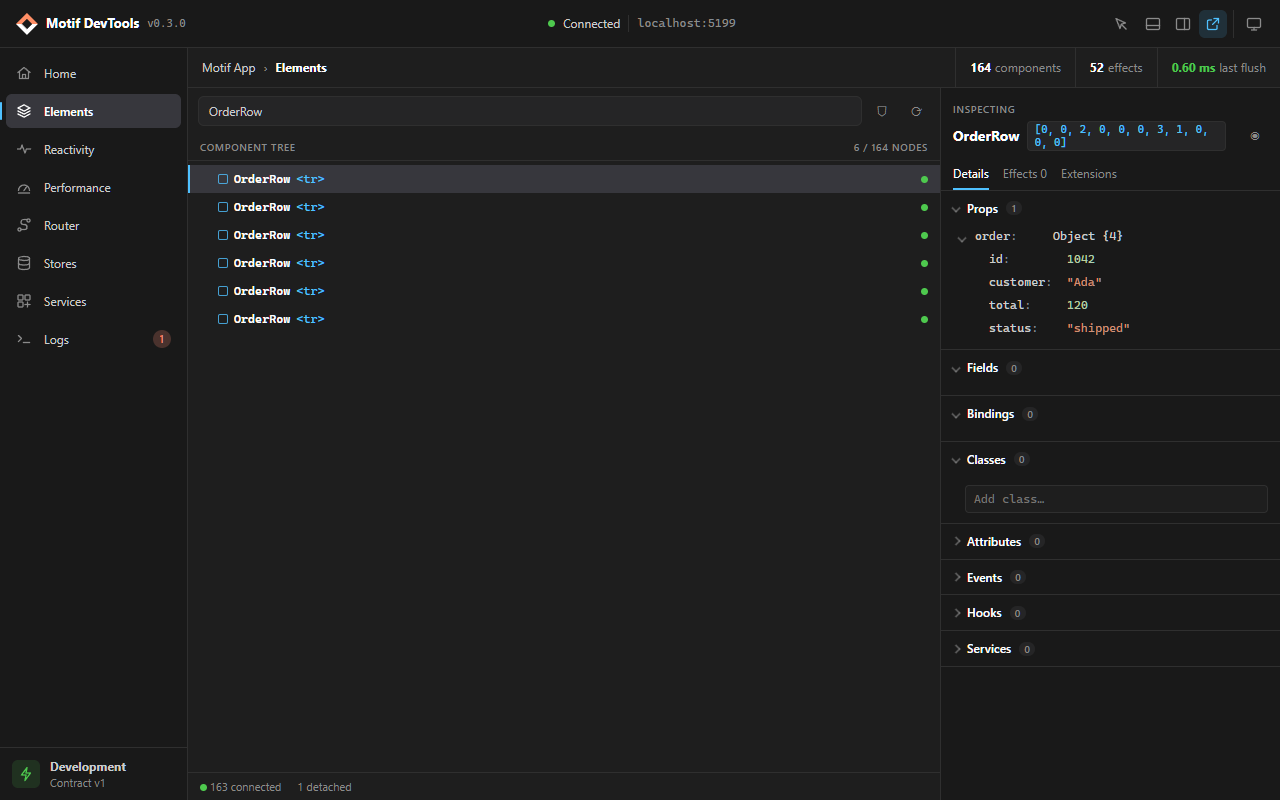
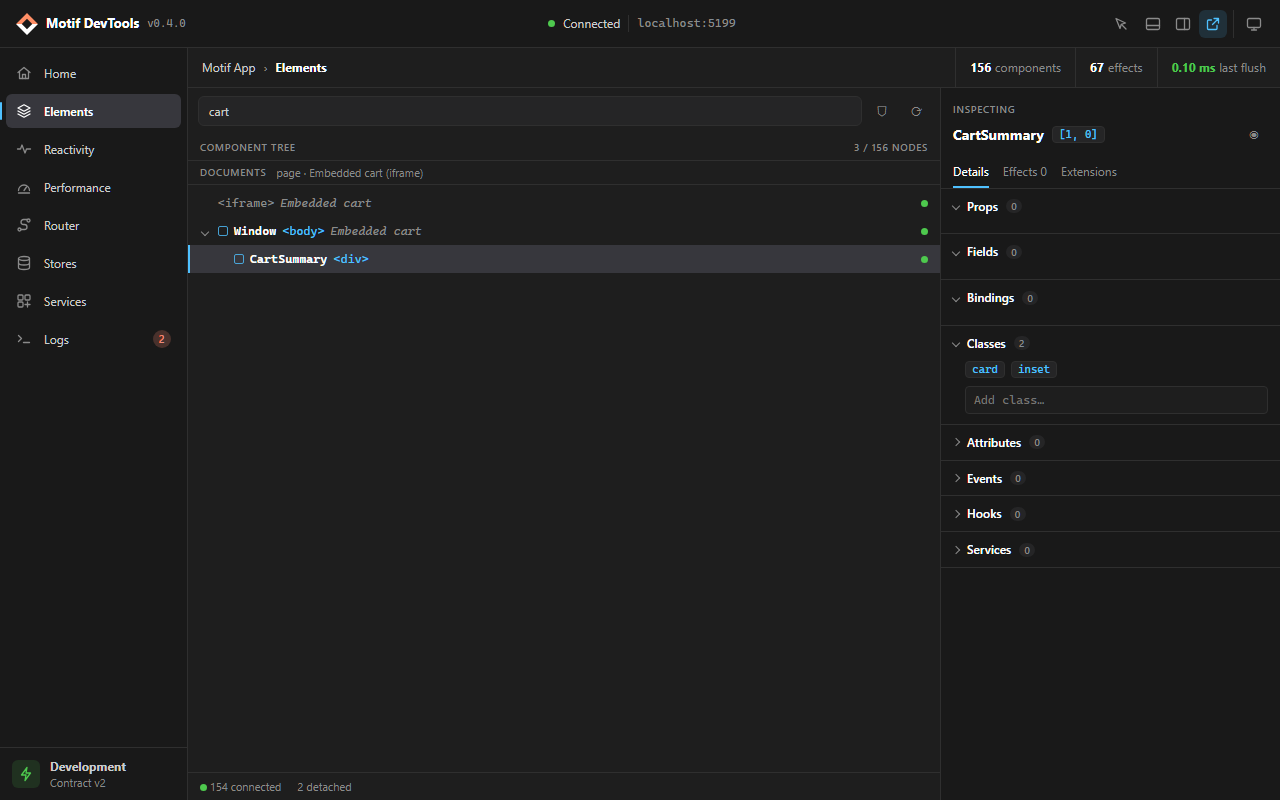
Update the store description and screenshots for 0.4.0
The store texts and images still showed 0.3.0 and contract 1.

diff --git a/extension/store/listing.md b/extension/store/listing.md
@@ -29,7 +29,10 @@ What you can inspect:
 
 • Home: the MotifJS and contract versions and a summary of the app.
 • Elements: the live component tree with search, props, fields, bindings, classes, attributes, events, services and
-  effects. Select a component in the page or highlight it from the tree.
+  effects. Every root of the app is listed: the page, the page layer and each window the app opens. A component
+  that lives in a popup, a Picture-in-Picture window or an iframe carries that document's name. Select a component
+  in any of these documents or highlight it from the tree. Large trees are read in slices and shown in a virtual
+  list, so the page stays responsive while you look.
 • Reactivity: every flush with the changes that started it and the effects that ran.
 • Performance: JS heap and components outside the tree over time, a timeline of navigations, flushes, builds and
   disposals, and the slowest components, flushes and navigations.
